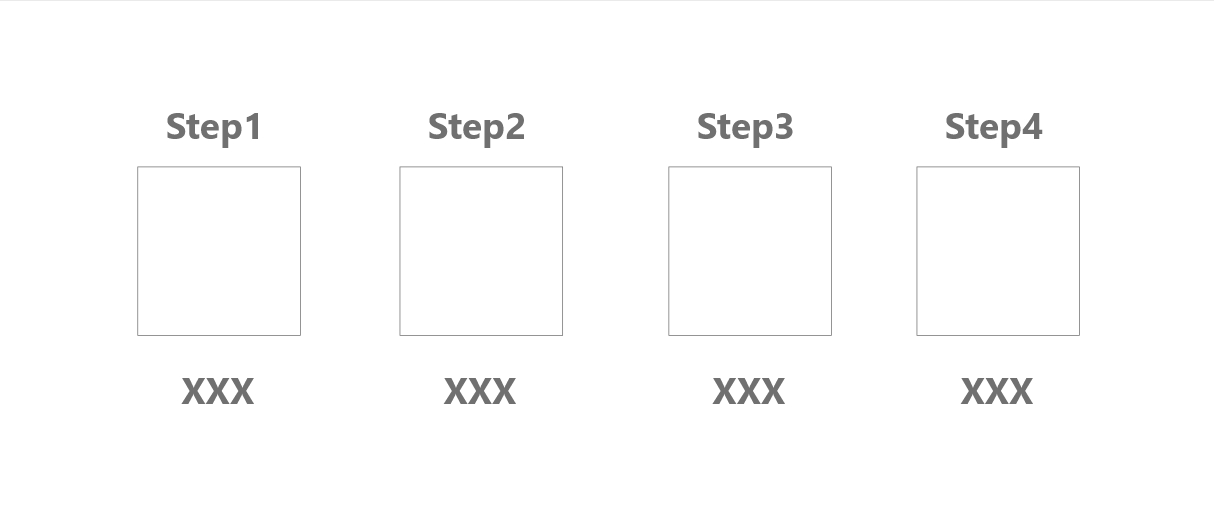
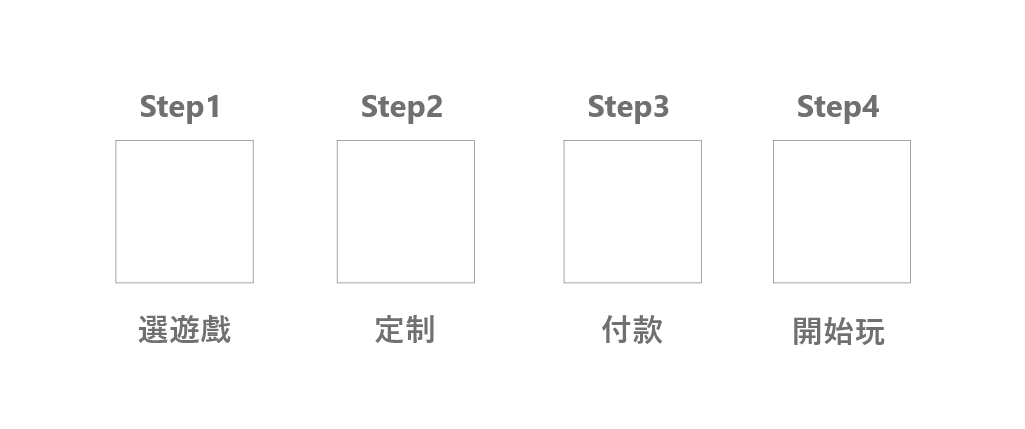
update index

diff --git a/website/index.html b/website/index.html
@@ -58,7 +58,7 @@
                         <div class="normal-text">你需要選擇游戲以及部分對話内容</div>
                     </div>
                     <div class="introduce-box-mid">
-                        <div class="normal-text">我們會根據你的設計完成你的需求</div>
+                        <div class="normal-text">訂製屬於你的個人遊戲</div>
                     </div>
                 </div>
 
@@ -79,7 +79,7 @@
     <!--Go Game Shop Btn-->
     <div class="container">
         <a class="go-custom-game-btn" href="./gameShop.html">
-            <div class="normal-text">開始設計</div>
+            <div class="normal-text">開始訂製</div>
         </a>  
     </div>
     

diff --git a/website/js/dialougeDesign.js b/website/js/dialougeDesign.js
@@ -3,8 +3,6 @@ function addDialougeInput(){
     var dialougeAmount = document.getElementsByClassName("dialouge-title").length;
     var newInputLable = document.createElement("label");
     var newInput = document.createElement("input");
-    
-
 
     newInputLable.classList.add("dialouge-title");
     newInputLable.classList.add("subtitle");

diff --git a/website/css/index.css b/website/css/index.css
@@ -25,6 +25,7 @@
     border-radius: 100%;
     background-color: rgb(194, 194, 194);
     margin-right: 8px;
+    cursor: pointer;
 }
 .marquee-index-item-active{
     width: 16px;
@@ -32,6 +33,7 @@
     border-radius: 100%;
     margin-right: 8px;
     background-color: rgb(95, 95, 95);
+    cursor: pointer;
 }
 
 /*about-us*/
